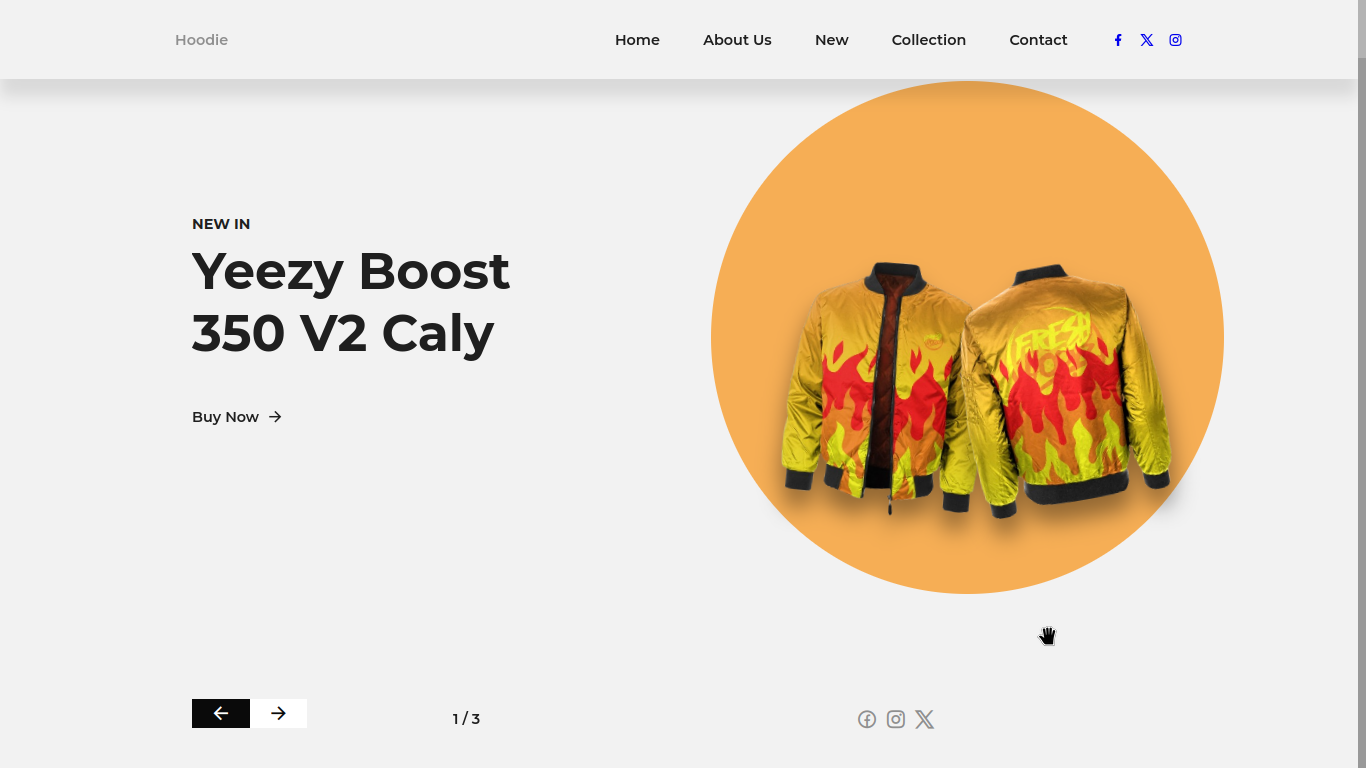
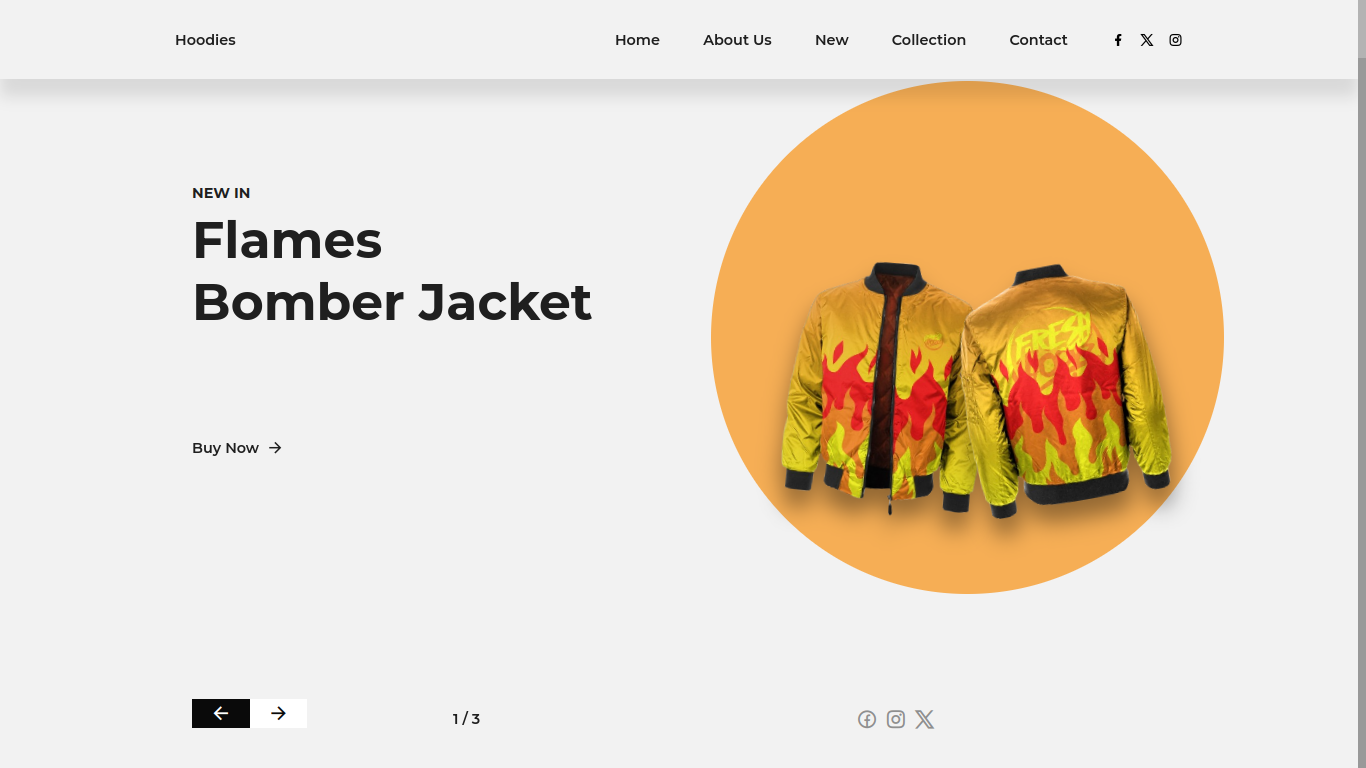
update preview

diff --git a/index.html b/index.html
@@ -101,7 +101,7 @@
 
                      <div class="swiper-slide">
                         <h1 class="home__title">
-                           Hyperdunk X <br> TB Urban Red
+                           Sunset Bomber Jacket<br> 
                         </h1>
                      </div>
 
